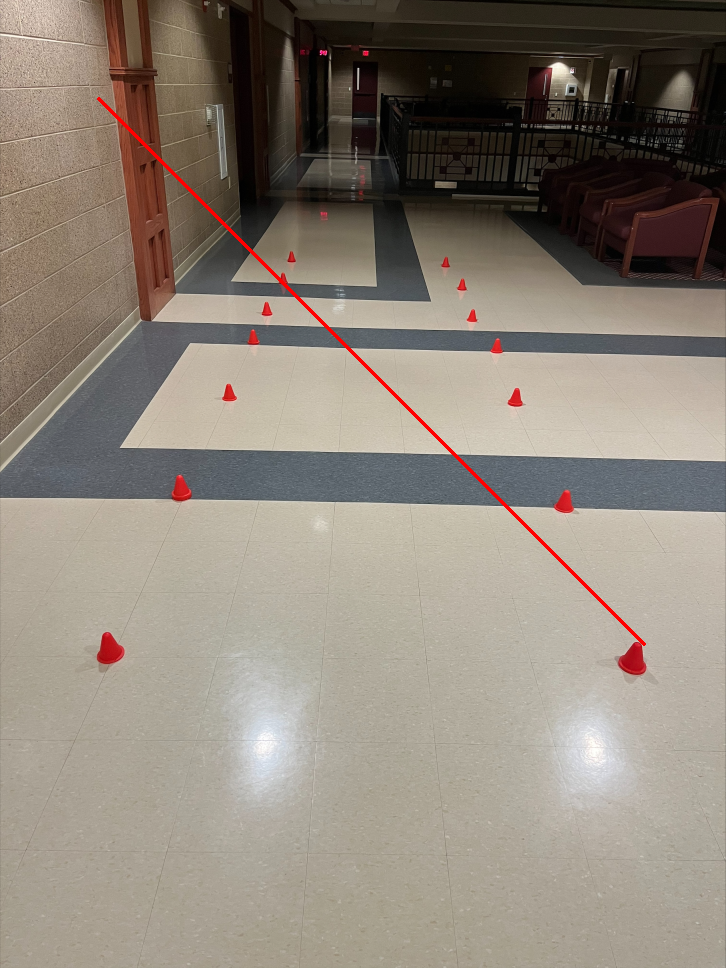
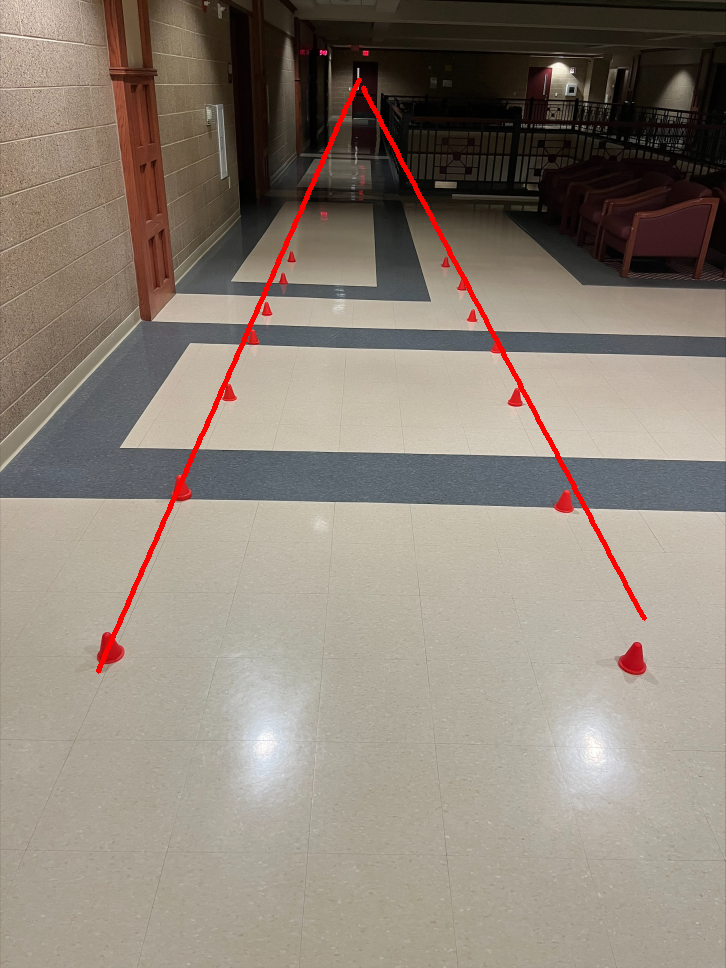
Add files via upload

diff --git a/wiauto.py b/wiauto.py
@@ -1,172 +1,86 @@
-# import cv2
-# import numpy as np
-
-# # Load the image
-# img = cv2.imread("")
-
-# # Convert the image to HSV color space
-# hsv = cv2.cvtColor(img, cv2.COLOR_BGR2HSV)
-
-# # Define the lower and upper bounds for orange cones and green path
-# orange_lower = np.array([0, 70, 50])
-# orange_upper = np.array([30, 255, 255])
-# green_lower = np.array([30, 70, 50])
-# green_upper = np.array([80, 255, 255])
-
-# # Create masks for orange cones and green path
-# orange_mask = cv2.inRange(hsv, orange_lower, orange_upper)
-# green_mask = cv2.inRange(hsv, green_lower, green_upper)
-
-# # Apply Canny edge detection to the orange mask
-# orange_edges = cv2.Canny(orange_mask, 100, 200)
-
-# # Find contours in the orange edges image
-# orange_contours, _ = cv2.findContours(orange_edges, cv2.RETR_EXTERNAL, cv2.CHAIN_APPROX_SIMPLE)
-
-# # Find the largest contour, which should correspond to the boundary of the path
-# path_contour = max(orange_contours, key=cv2.contourArea)
-
-# # Draw the path contour on the original image in green
-# cv2.drawContours(img, [path_contour], -1, (0, 255, 0), 2)
-
-# # Save the image as "answer.png"
-# cv2.imwrite("answer.png", img)
-
-
-###############################################################
-#Doesn't work
-
-# import cv2 as cv
-# import numpy as np
-
-# img= cv.imread("D:/original.png")
-# #cv.imshow('original', img)
-
-# #This rescales images
-
-# def rescaleFrame(frame, scale=0.4):
-#     width = int(frame.shape[1] * scale) #width
-#     height = int(frame.shape[0] * scale) #height
-#     dimensions=(width,height)
-
-#     return cv.resize(frame,dimensions, interpolation=cv.INTER_AREA)
-
-# # Reading images
-# resized_image=rescaleFrame(img)
-# #cv.imshow('ID-resized', resized_image)
-
-# # Converting the imgage to HSV color space 
-# hsv_img=cv.cvtColor(resized_image,cv.COLOR_BGR2HSV)
-# #cv.imshow("HSV",hsv_img) 
-
-# # Creating a range of values for opencv to detect red cones
-# # Colors between [0,0,200] and [0,0,255] are considered red 
-# lower_red = np.array([0, 0, 190], dtype = "uint8") 
-# upper_red= np.array([0, 0, 256], dtype = "uint8")
-
-# # Returns a binary image where white is for red color detected
-# # and black is for not detected
-# mask = cv.inRange(resized_image, lower_red, upper_red)
-# cv.imshow("mask",mask)
-# detected_output = cv.bitwise_and(resized_image, resized_image, mask =  mask) 
-
-# cv.imshow("red color detection", detected_output) 
-
-# # Canny edge detection
-# # canny=cv.Canny(detected_output, 150,255)
-# # cv.imshow("Canny",canny)
-
-#######################################################################
-
-
 import cv2
 import numpy as np
 
 # Reading the image
+img = cv2.imread('original.png')
 
-img = cv2.imread('D:/original.png')
-
-#Rescaled
+#Rescaling the image
 def rescaleFrame(frame, scale=0.4):
     width = int(frame.shape[1] * scale) #width
     height = int(frame.shape[0] * scale) #height
     dimensions=(width,height)
 
-    return cv2.resize(frame,dimensions, interpolation=cv2.INTER_AREA)
+    return cv2.resize(frame, dimensions, interpolation=cv2.INTER_AREA)
 
 img=rescaleFrame(img)
 
 
-# convert to hsv colorspace 
+# converts to hsv colorspace for detecting colors 
 hsv = cv2.cvtColor(img, cv2.COLOR_BGR2HSV)
 
-# lower bound and upper bound for Red color 
+# Defining lower bound and upper bound for Red color 
 lower_bound = np.array([161,155,84])
 upper_bound = np.array([179,255,255])
 
 
-# find the colors within the boundaries using a mask
+# finds red color within the range
+# returns a binary image which is white 
+# where the colors are detected and 0 otherwise
 mask = cv2.inRange(hsv, lower_bound, upper_bound)
-# cv2.imshow("mask",mask)
+
 
 # Applying canny edge detection for detecting the edges
 canny = cv2.Canny(mask, 100, 200)
-# cv2.imshow("canny",canny)
 
 # Finding contours in the image
 contours, heirarchies = cv2.findContours(canny, cv2.RETR_LIST, cv2.CHAIN_APPROX_SIMPLE)
 
+# Storing the contours in a list
 list_contours=[]
 for i in contours:
-    list_contours.append([i[0][0][0],i[0][0][0]])
+    list_contours.append([i[0][0][0],i[0][0][1]])
 
+# sorting the list based on the x-value of the contours
 list_contours=sorted(list_contours)
 
-top_right=max(list_contours)
 
-bottom_left=min(list_contours)
-
-
-# topmost left, topmost right, bottommost left bottommost right
-corners=[[-1,-1],[-1,-1],[-1,-1],[-1,-1]]
-for i in range(len(list_contours)):
-    if corners==[[-1,-1],[-1,-1],[-1,-1],[-1,-1]]:
-        corners=[list_contours[i],list_contours[i],list_contours[i],list_contours[i]]
-    
+# dividing the array into left-sided and right-sided contours 
+# based on the median 
+left_contours=list_contours[:len(list_contours)//2]
+right_contours=list_contours[len(list_contours)//2:]
 
 
-    #Topmost right :top has highest value, right has highest value 
-    elif list_contours[i][0]>corners[1][0] and list_contours[i][0]>corners[1][0]:
-        corners[1]=list_contours[i]
-    #Bottom right :bottom has least value, right has highest value 
-    elif list_contours[i][0]<corners[3][0] and list_contours[i][0]>corners[3][0]:
-         corners[3]=list_contours[i]
+# converts the lists into to np arrays
+left_pts = np.array(left_contours)
+right_pts= np.array(right_contours)
+
+# left_pts[:,0] returns the x coordinates of left_pts
+# right_pts[:,1] returns the y coordinates of right_pts
+# fits a polynomial curve of degree 1 (a line) to a set of data points 
+# using least squares polynomial approximation.
+left_coeffs = np.polyfit(left_pts[:,0], left_pts[:,1], 1)
+right_coeffs = np.polyfit(right_pts[:,0], right_pts[:,1], 1)
 
 
+# linspace generates x coordinates that are equally spaced 
+# between minimum x and maximum x coordinates of the contours
+left_x_coords=np.linspace(min(left_pts[:,0]),max(left_pts[:,0]),100)
+right_x_coords=np.linspace(min(right_pts[:,0]),max(right_pts[:,0]),100)
 
-# Draw lines
-# Bottom left to top left
-cv2.line(img, bottom_left, corners[1], (0,0,255), thickness=2)
-# Bottom right to top right 
-cv2.line(img, corners[3],top_right, (0,0,255), thickness=2) 
+# polyval gets the corresponding y coordinates from the input x coordinates
+# based of the curve obtained by coeffs 
+left_y_coords=np.polyval(left_coeffs,left_x_coords)
+right_y_coords=np.polyval(right_coeffs,right_x_coords)
 
-# # assign the four corners based on the sorted coordinates
+# column_stack stacks the 1-D lists of x points and y points horizontally
+# as points in a 2-D array to be drawn
+left_line_pts = np.column_stack((left_x_coords.astype(int), left_y_coords.astype(int)))
+right_line_pts = np.column_stack((right_x_coords.astype(int), right_y_coords.astype(int)))
 
-# top_left = list_contours[0]
-# top_right = (list_contours[3][0], list_contours[len(list_contours)-1][1])
-# bottom_right = list_contours[len(list_contours)-1]
-# bottom_left = (list_contours[0][0], list_contours[3][1])
-# cv2.line(img,top_left,bottom_left,(0,0,255), thickness=2)
-# cv2.line(img,top_right,bottom_right,(0,0,255), thickness=2)
+# draws a line from a set of integer x and y coordinates
+cv2.polylines(img, [left_line_pts], False, (0, 0, 255), thickness=4)
+cv2.polylines(img, [right_line_pts], False, (0,0,255), thickness=4)
 
-cv2.imshow("Image",img)
+cv2.imshow("Answer",img)
 cv2.imwrite('answer.png',img)
-
-
-#contours = max(contours, key=cv2.contourArea)
-
-# Drawing contours on the image
-# cv2.drawContours(img, contours, -1, (0,0,255), 1)
-# cv2.imshow("Blank",img) 
-
 cv2.waitKey(0) # Waits for an infinite amount of time
